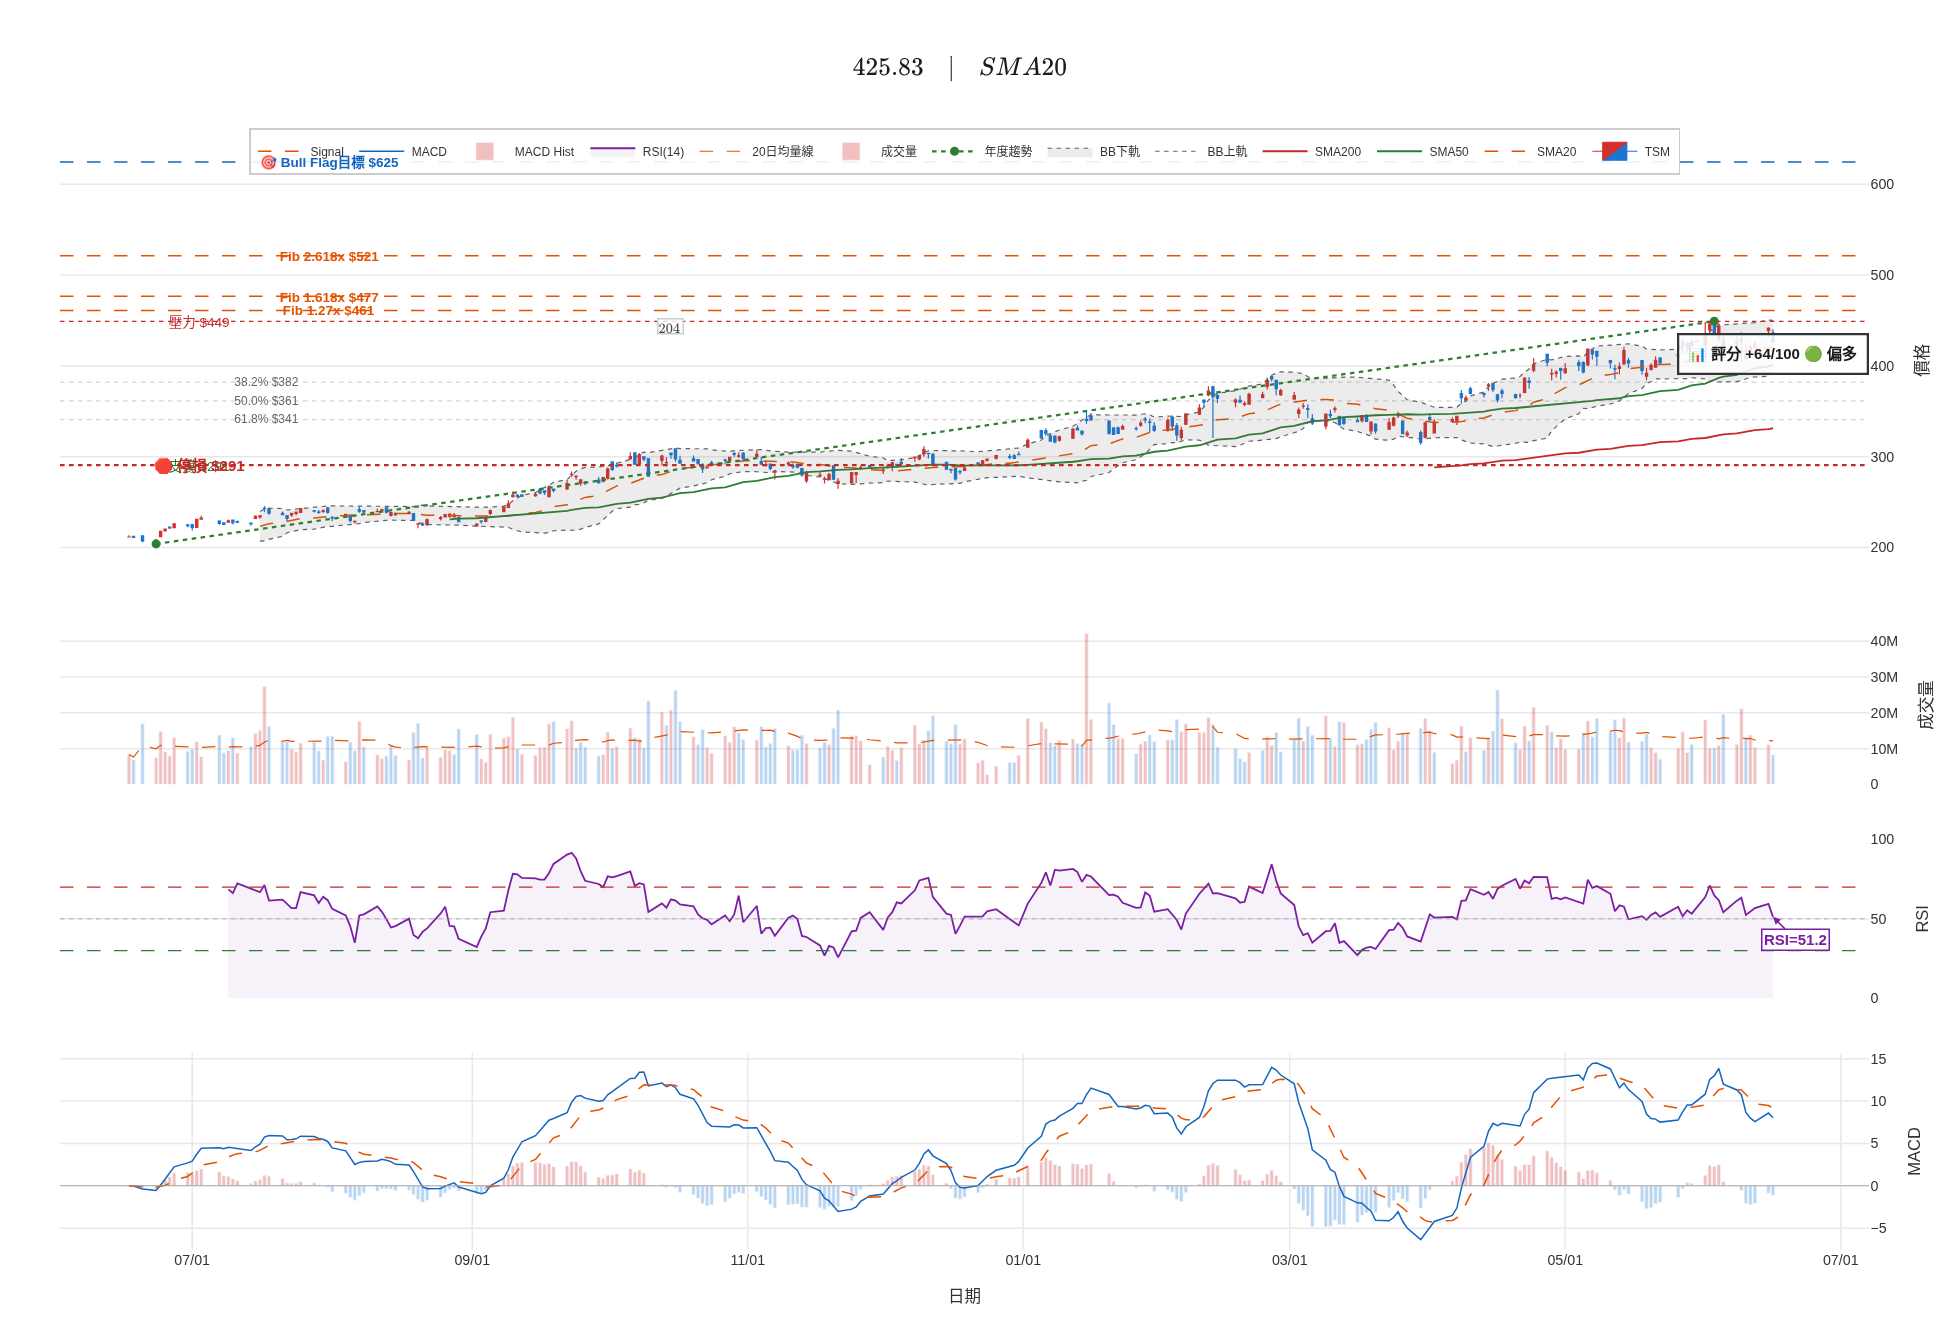
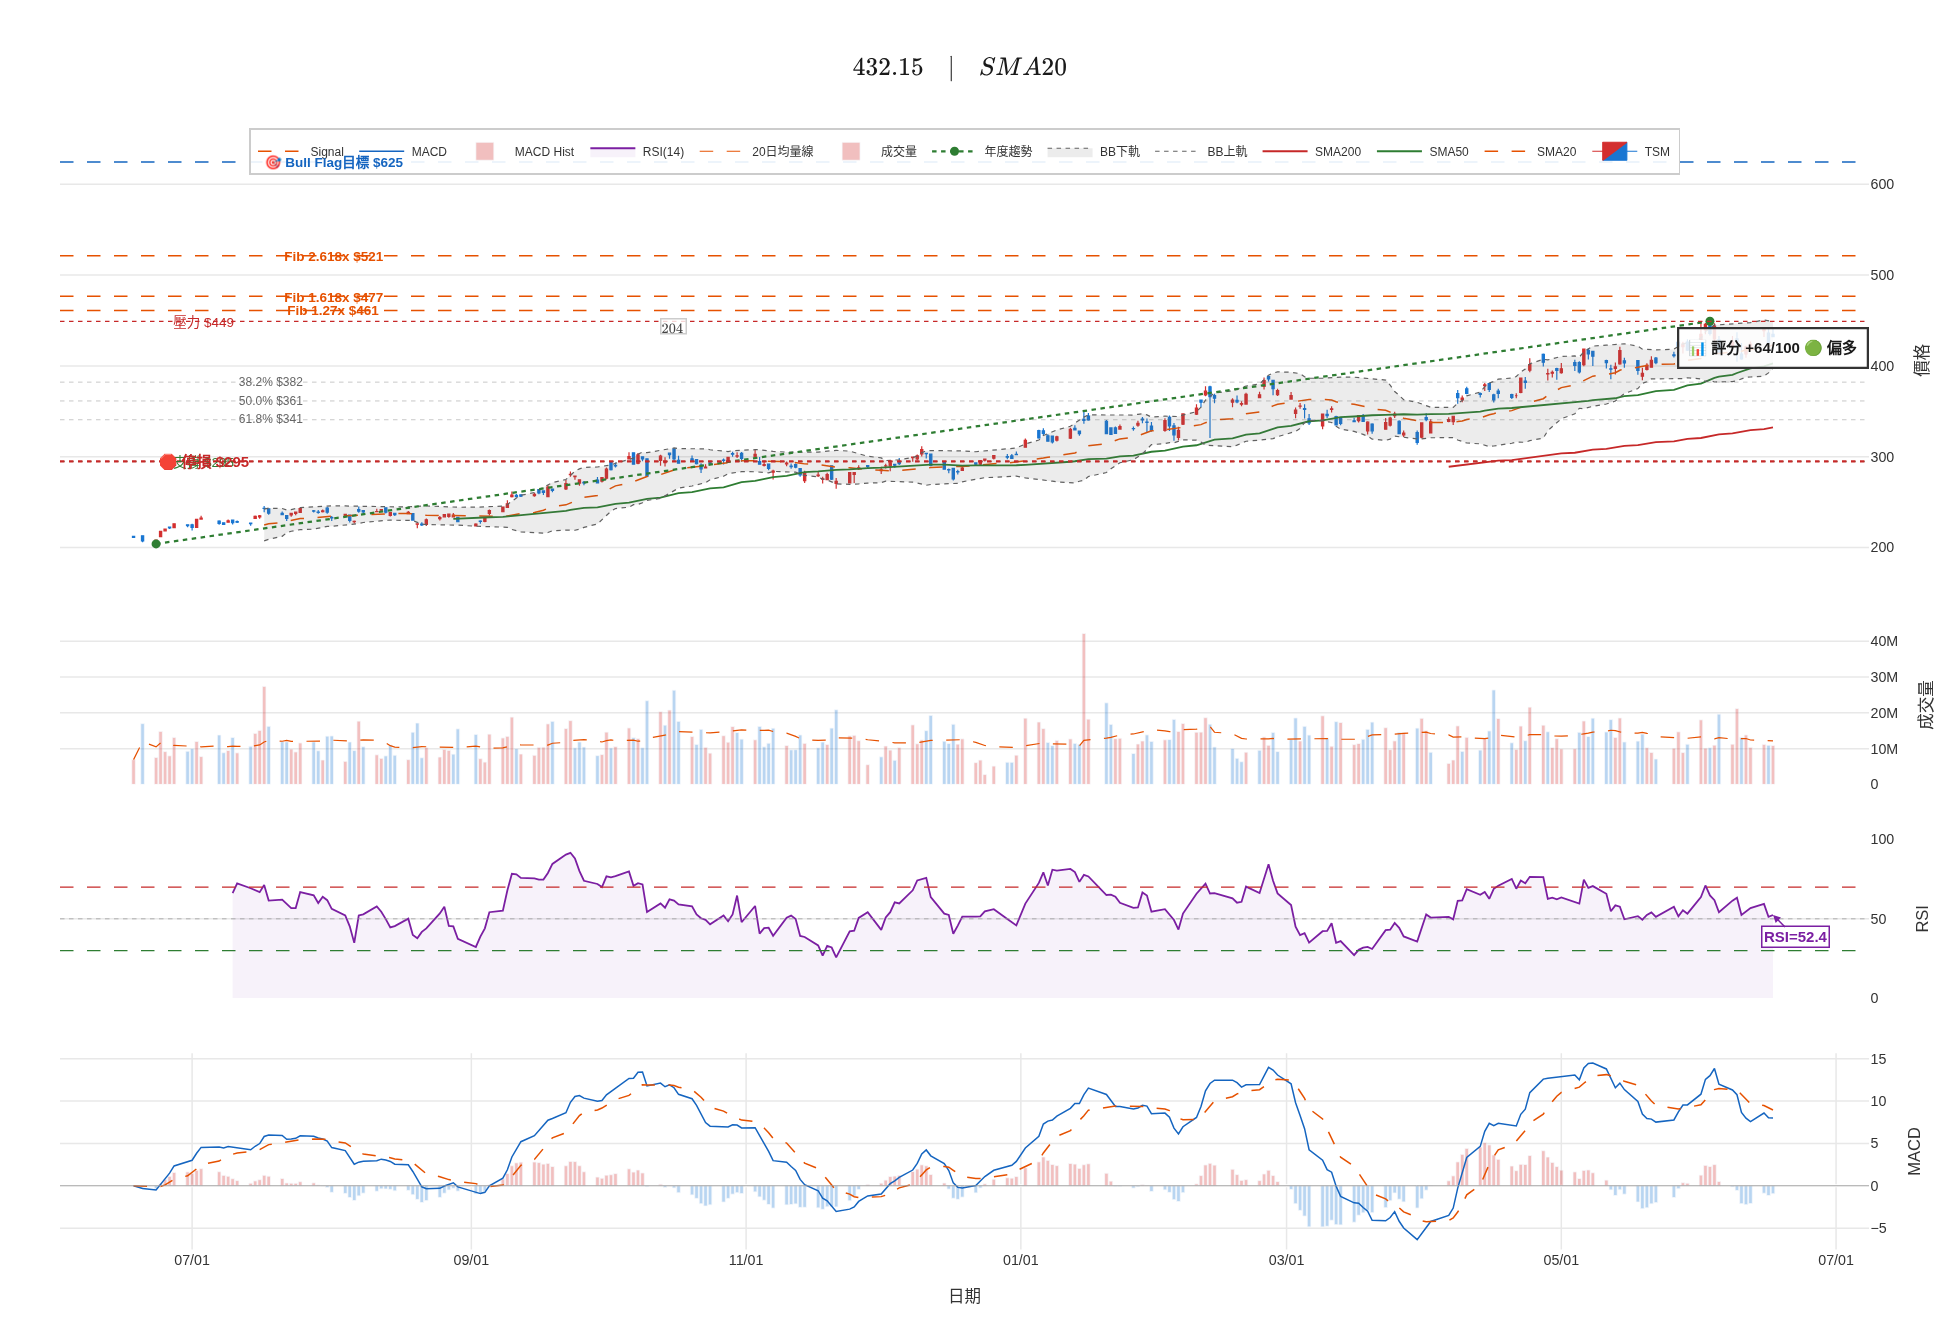
charts: 更新 2026-06-18 技術圖（美收2026/06/17）

diff --git a/charts/index.html b/charts/index.html
@@ -39,27 +39,27 @@ body { font-family:'Noto Sans TC',sans-serif; background:#f5f0e8; color:#1a1714;
   <a href="../">← 回首頁</a>
 </div>
 <div class="container">
-  <div class="date-badge">📅 2026/06/16 收盤</div>
+  <div class="date-badge">📅 2026/06/17 收盤</div>
   <div class="chart-grid">
     <div class="chart-card">
       <img src="dji.png" alt="道瓊工業指數">
-      <div class="info"><h3>道瓊工業指數 DJI</h3><p>51,999.67 (+0.64%) · RSI 64.1</p></div>
+      <div class="info"><h3>道瓊工業指數 DJI</h3><p>51,492.55 (-0.98%) · RSI 58.4</p></div>
     </div>
     <div class="chart-card">
       <img src="sox.png" alt="費城半導體指數">
-      <div class="info"><h3>費城半導體指數 SOX</h3><p>13,294.22 (-5.71%) · RSI 57.1</p></div>
+      <div class="info"><h3>費城半導體指數 SOX</h3><p>13,477.07 (+1.38%) · RSI 58.4</p></div>
     </div>
     <div class="chart-card">
       <img src="ixic.png" alt="納斯達克指數">
-      <div class="info"><h3>納斯達克指數 IXIC</h3><p>26,376.34 (-1.15%) · RSI 54.5</p></div>
+      <div class="info"><h3>納斯達克指數 IXIC</h3><p>26,021.66 (-1.34%) · RSI 50.2</p></div>
     </div>
     <div class="chart-card">
       <img src="tsm.png" alt="台積電 ADR">
-      <div class="info"><h3>台積電 ADR (TSM)</h3><p>$425.83 (-3.53%) · RSI 53.4</p></div>
+      <div class="info"><h3>台積電 ADR (TSM)</h3><p>$432.15 (+1.48%) · RSI 55.5</p></div>
     </div>
     <div class="chart-card">
       <img src="intc.png" alt="Intel">
-      <div class="info"><h3>Intel (INTC)</h3><p>$117.05 (-8.45%) · RSI 54.8</p></div>
+      <div class="info"><h3>Intel (INTC)</h3><p>$121.10 (+3.46%) · RSI 57.3</p></div>
     </div>
     <div class="chart-card" style="cursor:pointer;" onclick="location.href='taiex-technical.html'">
       <div style="height:160px;background:linear-gradient(135deg,#1a1a2e,#16213e);display:flex;align-items:center;justify-content:center;">
